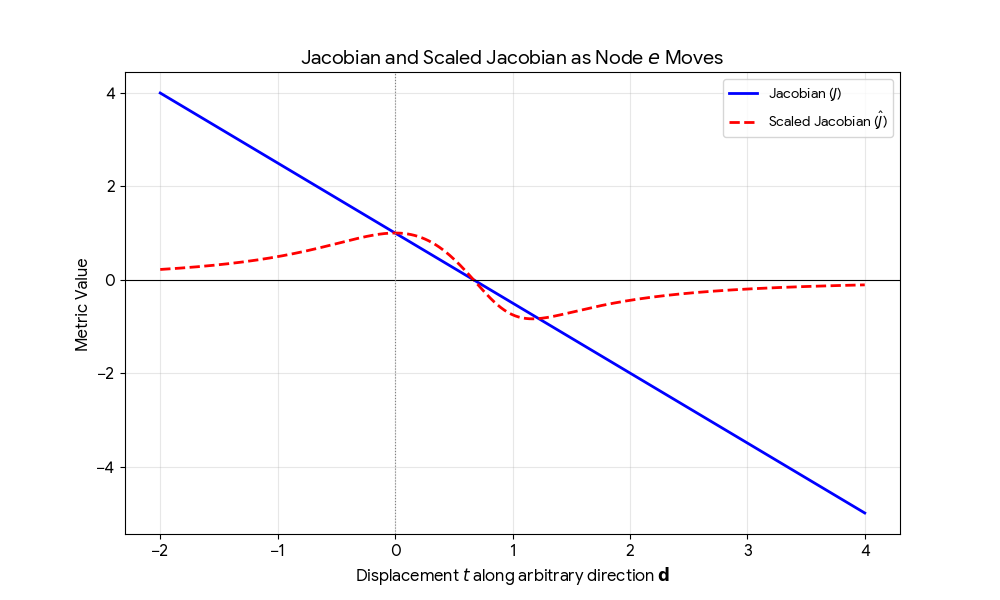
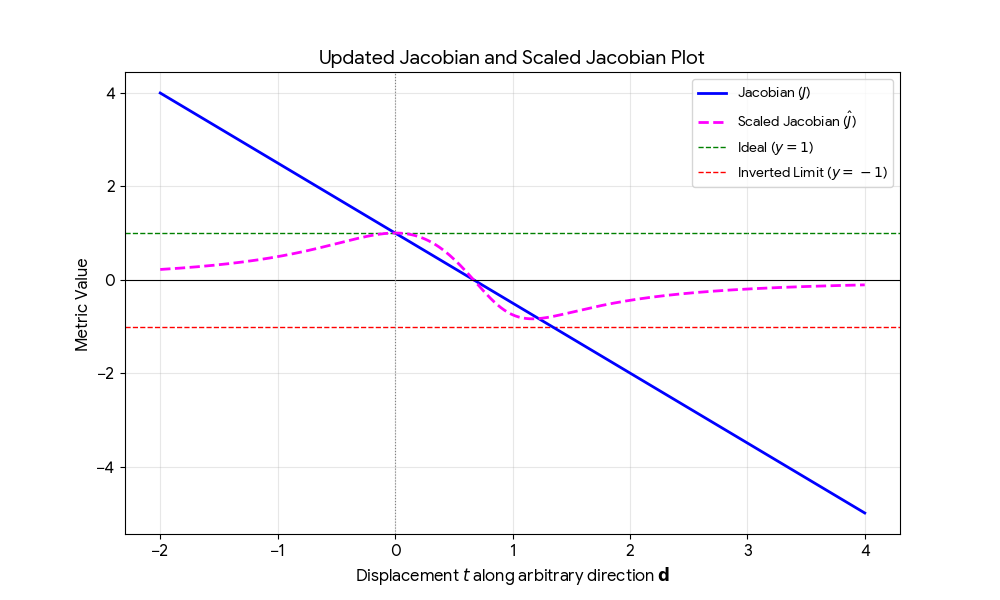
added clarity and limits to the scaled Jacobian plot

diff --git a/book/reviews/j_and_sj.py b/book/reviews/j_and_sj.py
@@ -1,0 +1,62 @@
+import numpy as np
+import matplotlib.pyplot as plt
+
+# Define nodes a, b, c (orthogonal)
+a = np.array([1, 0, 0])
+b = np.array([0, 1, 0])
+c = np.array([0, 0, 1])
+
+# Initial e and arbitrary direction d
+e0 = np.array([0, 0, 0])
+d = np.array([1, 0.5, 0.2])  # Arbitrary direction
+d = d / np.linalg.norm(d)  # Normalize
+
+t_vals = np.linspace(-2, 4, 400)
+
+
+def compute_metrics(t):
+    e = e0 + t * d
+    u = a - e
+    v = b - e
+    w = c - e
+
+    # J = (u x v) . w
+    j = np.dot(np.cross(u, v), w)
+
+    # L = ||u|| * ||v|| * ||w||
+    l = np.linalg.norm(u) * np.linalg.norm(v) * np.linalg.norm(w)
+
+    # Scaled Jacobian
+    sj = j / l if l != 0 else 0
+
+    return j, sj
+
+
+results = [compute_metrics(t) for t in t_vals]
+j_vals, sj_vals = zip(*results)
+
+# Create the plot
+plt.figure(figsize=(10, 6))
+plt.plot(t_vals, j_vals, label="Jacobian ($J$)", color="blue", linewidth=2)
+plt.plot(
+    t_vals, sj_vals, label="Scaled Jacobian ($\hat{J}$)", color="red", linestyle="--", linewidth=2
+)
+
+# Styling
+plt.axhline(0, color="black", linewidth=0.8, linestyle="-")
+plt.axvline(0, color="gray", linewidth=0.8, linestyle=":")
+
+# --- NEW UPDATED LINES ---
+plt.axhline(1, color="lightgray", linewidth=1, linestyle="--", zorder=0)
+plt.axhline(-1, color="lightgray", linewidth=1, linestyle="--", zorder=0)
+# -------------------------
+
+plt.xlabel("Displacement $t$ along arbitrary direction $\mathbf{d}$", fontsize=12)
+plt.ylabel("Metric Value", fontsize=12)
+plt.title("Jacobian and Scaled Jacobian as Node $e$ Moves", fontsize=14)
+plt.legend()
+plt.grid(True, alpha=0.3)
+
+# Save image
+plt.savefig("jacobian_and_scaled_jacobian.png")
+plt.show()

diff --git a/book/reviews/tong_2024.md b/book/reviews/tong_2024.md
@@ -466,54 +466,73 @@ Tong *et al.* choose $\alpha = 0.8 \times 10^{-3}$ for all tested models in thei
 import numpy as np
 import matplotlib.pyplot as plt
 
-# Define nodes a, b, c (orthogonal)
+# 1. Define nodes a, b, c (Initial orthogonal state)
 a = np.array([1, 0, 0])
 b = np.array([0, 1, 0])
 c = np.array([0, 0, 1])
 
-# Initial e and arbitrary direction d
+# 2. Set the initial position of node e and a movement direction d
 e0 = np.array([0, 0, 0])
 d = np.array([1, 0.5, 0.2]) # Arbitrary direction
-d = d / np.linalg.norm(d) # Normalize
+d = d / np.linalg.norm(d)   # Normalize the direction vector
 
+# 3. Define the range of movement (displacement t)
 t_vals = np.linspace(-2, 4, 400)
 
 def compute_metrics(t):
+    # Calculate new position of e
     e = e0 + t * d
+    
+    # Define edge vectors u, v, w
     u = a - e
     v = b - e
     w = c - e
 
-    # J = (u x v) . w
+    # Jacobian J = (u x v) . w (Scalar Triple Product)
     j = np.dot(np.cross(u, v), w)
 
-    # L = ||u|| * ||v|| * ||w||
+    # Product of edge lengths L = ||u|| * ||v|| * ||w||
     l = np.linalg.norm(u) * np.linalg.norm(v) * np.linalg.norm(w)
 
-    # Scaled Jacobian
+    # Scaled Jacobian SJ = J / L
     sj = j / l if l != 0 else 0
 
     return j, sj
 
+# 4. Generate the data points
 results = [compute_metrics(t) for t in t_vals]
 j_vals, sj_vals = zip(*results)
 
-# Create the plot
+# 5. Create the Plot
 plt.figure(figsize=(10, 6))
-plt.plot(t_vals, j_vals, label='Jacobian ($J$)', color='blue', linewidth=2)
-plt.plot(t_vals, sj_vals, label='Scaled Jacobian ($\hat{J}$)', color='red', linestyle='--', linewidth=2)
 
-# Styling
-plt.axhline(0, color='black', linewidth=0.8, linestyle='-')
+# Plot the Raw Jacobian (Linear)
+plt.plot(t_vals, j_vals, label='Jacobian ($J$)', color='blue', linewidth=2)
+
+# Plot the Scaled Jacobian (Non-linear, dashed magenta)
+plt.plot(t_vals, sj_vals, label='Scaled Jacobian ($\hat{J}$)', color='magenta', linestyle='--', linewidth=2)
+
+# Zero threshold (The 'Inversion' cliff)
+plt.axhline(0, color='black', linewidth=1.2, linestyle='-')
 plt.axvline(0, color='gray', linewidth=0.8, linestyle=':')
+
+# Ideal target line (Green at y = +1)
+plt.axhline(1, color='green', linewidth=1.2, linestyle='--', zorder=0, label='Ideal ($y=1$)')
+
+# Lower bound limit (Red at y = -1)
+plt.axhline(-1, color='red', linewidth=1.2, linestyle='--', zorder=0, label='Inverted Limit ($y=-1$)')
+
+# Labels and Title
 plt.xlabel('Displacement $t$ along arbitrary direction $\mathbf{d}$', fontsize=12)
 plt.ylabel('Metric Value', fontsize=12)
-plt.title('Jacobian and Scaled Jacobian as Node $e$ Moves', fontsize=14)
-plt.legend()
+plt.title('Jacobian vs. Scaled Jacobian Optimization Landscape', fontsize=14)
+plt.legend(loc='upper right')
 plt.grid(True, alpha=0.3)
 
-# Save image
+# Save and Show
+plt.tight_layout()
 plt.savefig('jacobian_and_scaled_jacobian.png')
+plt.show()
 ```
 
 The **Jacobian** is a *linear* function of the displacement $t$.  The curve is straight
